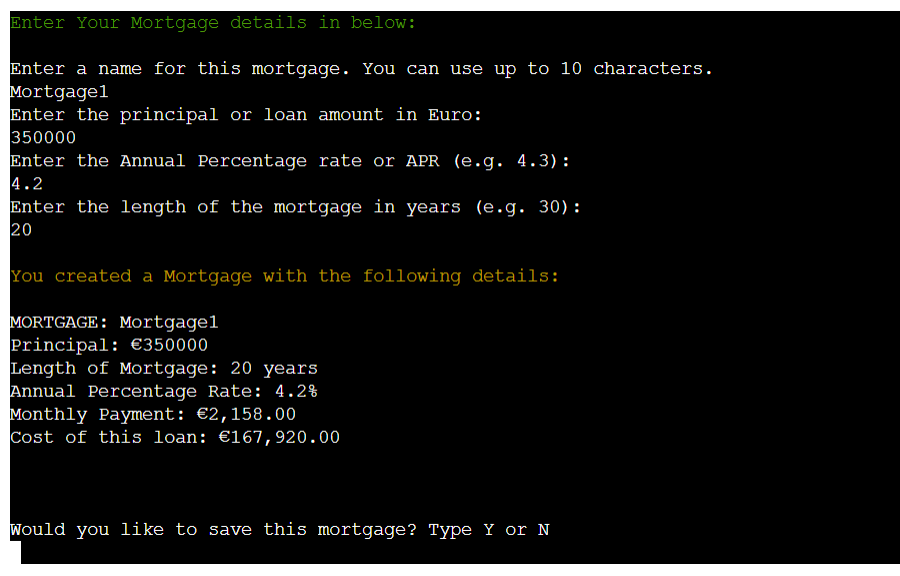
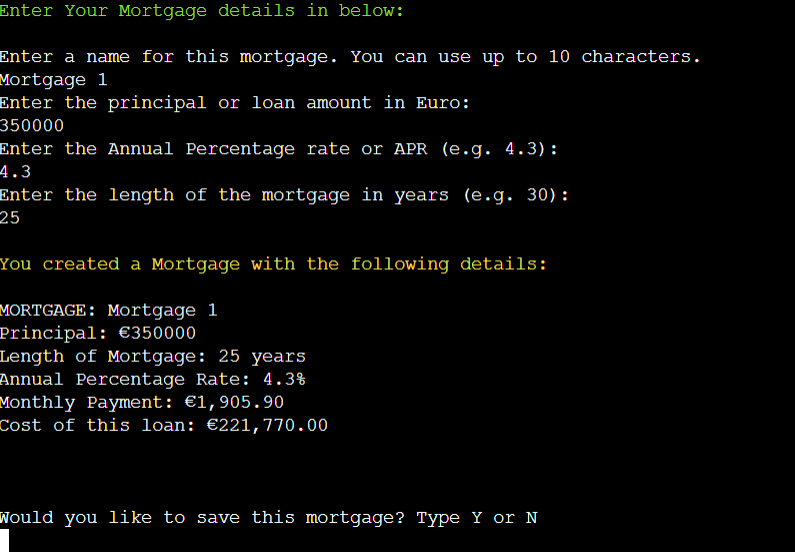
Updates screenshots in documentation. Removes backslash in string in view mortgages function causing indentation

Changed region(s): [[0.0, 0.0, 1.0, 1.0]]

diff --git a/run.py b/run.py
@@ -432,7 +432,7 @@ def view_mortgage():
             try:
                 selection = int(
                     input(
-                        "Enter the number of the mortgage that you'd like to view \n\
+                        "Enter the number of the mortgage that you'd like to view \n
                         or enter '0' to return to the main menu: \n"
                     )
                 )
